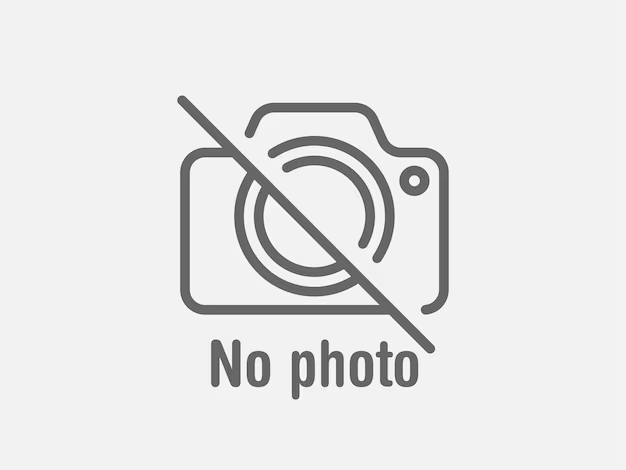
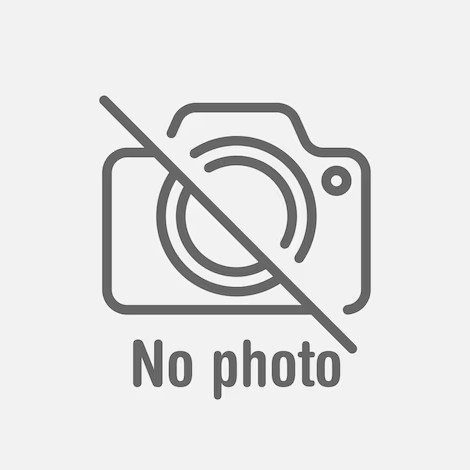
KAN-64-UI-이미지 수정
- 종목 이미지 Error -> 기본 이미지 렌더링
- 스크롤 CSS 수정

Changed region(s): [[0.2085, 0.2085, 0.8043, 0.8638]]

diff --git a/src/components/common/ListTables.jsx b/src/components/common/ListTables.jsx
@@ -159,11 +159,15 @@ export default function ListTables({ type, data, headers }) {
                         </span>
                         <img
                           src={
-                            row["ticker"] || row["code"]
-                              ? `https://thumb.tossinvest.com/image/resized/96x0/https%3A%2F%2Fstatic.toss.im%2Fpng-icons%2Fsecurities%2Ficn-sec-fill-${
+                            (
+                              row["ticker"] ||
+                              row["code"] ||
+                              "Unknown"
+                            ).includes("Unknown")
+                              ? NoPhoto // Unknown일 때 출력할 이미지 URL
+                              : `https://thumb.tossinvest.com/image/resized/96x0/https%3A%2F%2Fstatic.toss.im%2Fpng-icons%2Fsecurities%2Ficn-sec-fill-${
                                   row["ticker"] || row["code"]
                                 }.png`
-                              : NoPhoto // Unknown일 때 출력할 이미지 URL
                           }
                           alt={`${row["ticker"] || row["code"]} 아이콘`}
                           style={{
@@ -171,6 +175,10 @@ export default function ListTables({ type, data, headers }) {
                             height: "40px",
                           }}
                           className="rounded-xl"
+                          onError={(e) => {
+                            e.target.onerror = null; // 무한 루프 방지
+                            e.target.src = NoPhoto; // 기본 이미지 URL
+                          }}
                         />
                       </div>
                     ) : header.key === "votes" ? (

diff --git a/src/pages/StockPage.jsx b/src/pages/StockPage.jsx
@@ -17,6 +17,7 @@ import {
 import ScrollToTopButton from "../components/common/ScrollToTopButton";
 import StockComment from "../components/stock/StockComment";
 const BASE_URL = import.meta.env.VITE_BACK_URL;
+import NoPhoto from "/img/NoPhoto.png";
 
 export default function StockPage() {
   const location = useLocation();
@@ -181,6 +182,10 @@ export default function StockPage() {
               marginRight: "0.3em",
             }}
             className="rounded-xl"
+            onError={(e) => {
+              e.target.onerror = null; // 무한 루프 방지
+              e.target.src = NoPhoto; // 기본 이미지 URL
+            }}
           />
           <div className="flex flex-row gap-2">
             <div className="font-semibold text-xl">{stockData.name}</div>

diff --git a/src/App.css b/src/App.css
@@ -44,3 +44,21 @@
 .read-the-docs {
   color: #888;
 } */
+
+/* 스크롤바 CSS */
+::-webkit-scrollbar {
+  width: 2px; /* 스크롤바의 너비 */
+}
+
+::-webkit-scrollbar-track {
+  background: #f1f1f1; /* 스크롤바 트랙의 배경색 */
+}
+
+::-webkit-scrollbar-thumb {
+  background: #888; /* 스크롤바의 색상 */
+  border-radius: 10px; /* 스크롤바의 모서리 둥글게 */
+}
+
+::-webkit-scrollbar-thumb:hover {
+  background: #555; /* 스크롤바에 마우스를 올렸을 때 색상 */
+}
